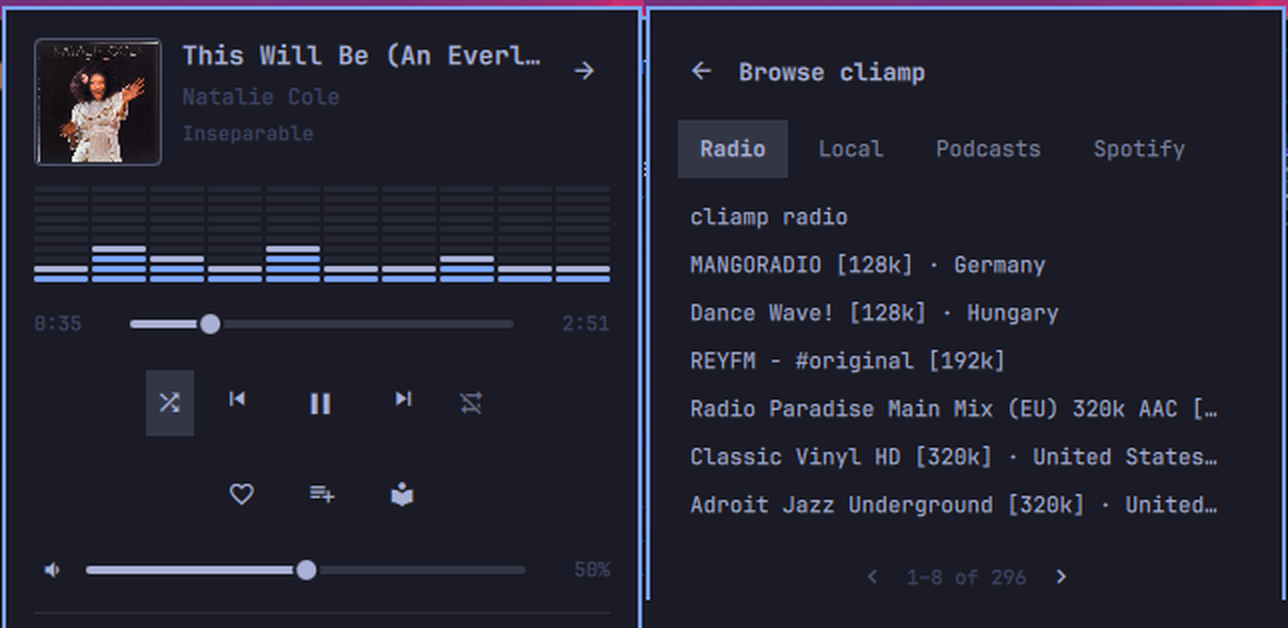
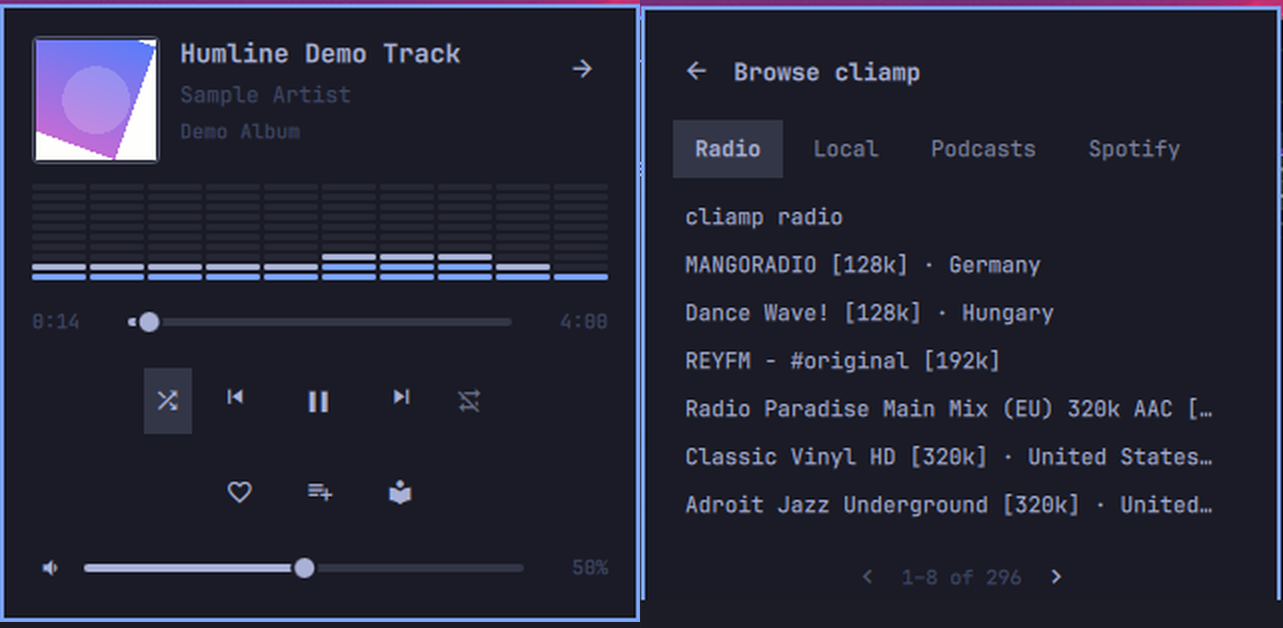
Humline Player 1.3.0: one shared cava, better player choice, tests and CI

diff --git a/BarWidget.qml b/BarWidget.qml
@@ -9,36 +9,19 @@ BarWidget {
   id: root
   moduleName: "humline"
 
-  // Players with something to show; playerctld only mirrors other players.
-  readonly property var sourcePlayers: {
-    var all = Mpris.players ? Mpris.players.values : []
-    var result = []
-    for (var i = 0; i < all.length; i++) {
-      var p = all[i]
-      if (!p || String(p.dbusName || "").indexOf("playerctld") !== -1) continue
-      if (p.trackTitle || p.trackArtist) result.push(p)
-    }
-    return result
-  }
-  property string selectedKey: ""
-  // A player picked in the card wins; otherwise the first one playing.
-  readonly property var activePlayer: {
-    var players = sourcePlayers
-    var firstPlaying = null
-    for (var i = 0; i < players.length; i++) {
-      if (playerKey(players[i]) === selectedKey) return players[i]
-      if (!firstPlaying && players[i].isPlaying) firstPlaying = players[i]
-    }
-    return firstPlaying || (players.length ? players[0] : null)
-  }
-  property bool cavaMissing: false
+  // Player choice and the single cava live in Service.qml, shared by every
+  // bar (one per monitor).
+  readonly property var service: bar && bar.shell ? bar.shell.serviceFor("humline") : null
+  readonly property var sourcePlayers: service ? service.sourcePlayers : []
+  readonly property var activePlayer: service ? service.activePlayer : null
+  readonly property bool cavaMissing: service ? service.cavaMissing : false
 
   // Tunable from the manifest schema (shell.json entry).
   readonly property bool hideWhenPaused: setting("hideWhenPaused", false) === true
   readonly property int dotCount: Math.max(4, Math.min(10, Math.round(Number(setting("dotCount", 10)) || 10)))
 
   function playerKey(player) { return player ? String(player.dbusName || "") : "" }
-  function selectPlayer(player) { selectedKey = playerKey(player) }
+  function selectPlayer(player) { if (service) service.selectPlayer(player) }
   function localPath(name) { return decodeURIComponent(String(Qt.resolvedUrl(name)).replace(/^file:\/\//, "")) }
 
   readonly property bool hasMedia: activePlayer !== null && (activePlayer.trackTitle || activePlayer.trackArtist)
@@ -49,7 +32,7 @@ BarWidget {
 
   readonly property bool playing: hasMedia && activePlayer.isPlaying
   readonly property bool canSetVolume: !!activePlayer && activePlayer.volumeSupported === true
-  property var bands: []
+  readonly property var bands: service ? service.bands : []
   // The bar face shows dotCount bands sampled evenly from cava's ten.
   readonly property var barBands: {
     if (dotCount >= bands.length) return bands
@@ -208,33 +191,10 @@ BarWidget {
     if (canSetVolume) activePlayer.volume = Math.max(0, Math.min(1, v))
   }
 
-  onPlayingChanged: if (!playing) bands = []
-
   readonly property bool shown: hasMedia && (playing || popupOpen || !hideWhenPaused)
   visible: shown
   implicitWidth: shown ? (playing ? barSpectrum.implicitWidth : glyph.implicitWidth) + Style.space(12) : 0
   implicitHeight: barSize
-
-  // cava analyses the actual PipeWire output, so the spectrum works for any player.
-    Process {
-    id: visStream
-    command: ["sh", "-c", "command -v cava >/dev/null || exit 127; exec cava -p \"$1\"", "sh", root.localPath("cava.conf")]
-    running: root.playing && !root.cavaMissing
-    stdout: SplitParser {
-      onRead: function(line) {
-        var parts = line.split(";")
-        var values = []
-        for (var i = 0; i < parts.length; i++) {
-          if (parts[i] !== "") values.push(Number(parts[i]) / 100)
-        }
-        if (values.length) root.bands = values
-      }
-    }
-    onExited: function(exitCode) {
-      if (exitCode === 127) root.cavaMissing = true
-      else if (root.playing) visRestart.restart()
-    }
-  }
 
   Process { id: focusProc }
   // Fire-and-forget cliamp action from IPC while the card is closed.
@@ -294,12 +254,6 @@ BarWidget {
       root.activePlayer.positionChanged()
       root.seekTo(root.activePlayer.position + offsetSeconds)
     }
-  }
-
-  Timer {
-    id: visRestart
-    interval: 1500
-    onTriggered: if (root.playing && !root.cavaMissing && !visStream.running) visStream.running = true
   }
 
   DotSpectrum {

diff --git a/Service.qml b/Service.qml
@@ -1,0 +1,75 @@
+import QtQuick
+import Quickshell
+import Quickshell.Io
+import Quickshell.Services.Mpris
+
+// Shared state for every Humline bar widget (one per monitor): which player
+// is active and the one cava process that feeds the spectrum. Sharing it here
+// keeps a multi-monitor setup at a single cava.
+Item {
+  id: root
+
+  // Players with something to show; playerctld only mirrors other players.
+  readonly property var sourcePlayers: {
+    var all = Mpris.players ? Mpris.players.values : []
+    var result = []
+    for (var i = 0; i < all.length; i++) {
+      var p = all[i]
+      if (!p || String(p.dbusName || "").indexOf("playerctld") !== -1) continue
+      if (p.trackTitle || p.trackArtist) result.push(p)
+    }
+    return result
+  }
+
+  // The player picked in the card; only wins while it is playing.
+  property string selectedKey: ""
+  readonly property var activePlayer: {
+    var players = sourcePlayers
+    var selected = null
+    var firstPlaying = null
+    for (var i = 0; i < players.length; i++) {
+      if (playerKey(players[i]) === selectedKey) selected = players[i]
+      if (!firstPlaying && players[i].isPlaying) firstPlaying = players[i]
+    }
+    if (selected && selected.isPlaying) return selected
+    return firstPlaying || selected || (players.length ? players[0] : null)
+  }
+
+  readonly property bool playing: activePlayer !== null && activePlayer.isPlaying
+    && !!(activePlayer.trackTitle || activePlayer.trackArtist)
+  property var bands: []
+  property bool cavaMissing: false
+
+  function playerKey(player) { return player ? String(player.dbusName || "") : "" }
+  function selectPlayer(player) { selectedKey = playerKey(player) }
+  function localPath(name) { return decodeURIComponent(String(Qt.resolvedUrl(name)).replace(/^file:\/\//, "")) }
+
+  onPlayingChanged: if (!playing) bands = []
+
+  // cava analyses the actual PipeWire output, so the spectrum works for any player.
+  Process {
+    id: visStream
+    command: ["sh", "-c", "command -v cava >/dev/null || exit 127; exec cava -p \"$1\"", "sh", root.localPath("cava.conf")]
+    running: root.playing && !root.cavaMissing
+    stdout: SplitParser {
+      onRead: function(line) {
+        var parts = line.split(";")
+        var values = []
+        for (var i = 0; i < parts.length; i++) {
+          if (parts[i] !== "") values.push(Number(parts[i]) / 100)
+        }
+        if (values.length) root.bands = values
+      }
+    }
+    onExited: function(exitCode) {
+      if (exitCode === 127) root.cavaMissing = true
+      else if (root.playing) visRestart.restart()
+    }
+  }
+
+  Timer {
+    id: visRestart
+    interval: 1500
+    onTriggered: if (root.playing && !root.cavaMissing && !visStream.running) visStream.running = true
+  }
+}

diff --git a/tests/test_cliamp_helper.py b/tests/test_cliamp_helper.py
@@ -1,0 +1,110 @@
+"""Tests for bin/humline-cliamp (favorites.toml handling) and the manifest.
+
+Run: python3 -m unittest discover -s tests
+"""
+import importlib.machinery
+import importlib.util
+import json
+import os
+import tempfile
+import unittest
+
+ROOT = os.path.dirname(os.path.dirname(os.path.abspath(__file__)))
+
+
+def load_helper():
+    path = os.path.join(ROOT, "bin", "humline-cliamp")
+    loader = importlib.machinery.SourceFileLoader("humline_cliamp", path)
+    spec = importlib.util.spec_from_loader("humline_cliamp", loader)
+    module = importlib.util.module_from_spec(spec)
+    loader.exec_module(module)
+    return module
+
+
+helper = load_helper()
+
+
+class QuoteTests(unittest.TestCase):
+    def test_roundtrip(self):
+        for text in ["plain", 'a "quoted" title', "back\\slash", "tab\there", "new\nline",
+                     "ünïcödé — 日本語", "emoji 🎵", "ctrl\x01char", ""]:
+            with self.subTest(text=text):
+                self.assertEqual(helper.go_unquote(helper.go_quote(text)), text)
+
+    def test_quote_matches_go_for_simple_strings(self):
+        self.assertEqual(helper.go_quote('a"b'), '"a\\"b"')
+        self.assertEqual(helper.go_quote("x\ny"), '"x\\ny"')
+
+
+class EntryTests(unittest.TestCase):
+    TRACK = {"path": "/music/a.flac", "title": "A", "artist": "Artist", "year": 1999,
+             "provider_meta": {"id": "1"}}
+
+    def test_new_entry_fields(self):
+        text = helper.new_entry(self.TRACK)
+        self.assertTrue(text.startswith("[[entry]]\n"))
+        self.assertIn('path = "/music/a.flac"', text)
+        self.assertIn('artist = "Artist"', text)
+        self.assertIn("year = 1999", text)
+        self.assertIn('provider_meta.id = "1"', text)
+
+    def test_split_entries_decodes_paths(self):
+        text = helper.new_entry(self.TRACK) + "\n" + helper.new_entry({"path": 'x "y"', "title": "T"})
+        self.assertEqual([p for p, _ in helper.split_entries(text)], ["/music/a.flac", 'x "y"'])
+
+
+class ToggleTests(unittest.TestCase):
+    def setUp(self):
+        self.dir = tempfile.TemporaryDirectory()
+        self.old_env = os.environ.get("CLIAMP_CONFIG_DIR")
+        os.environ["CLIAMP_CONFIG_DIR"] = self.dir.name
+        self.old_current = helper.current_track
+        self.track = {"path": "/music/one.mp3", "title": "One"}
+        helper.current_track = lambda expected="": self.track
+
+    def tearDown(self):
+        helper.current_track = self.old_current
+        if self.old_env is None:
+            os.environ.pop("CLIAMP_CONFIG_DIR", None)
+        else:
+            os.environ["CLIAMP_CONFIG_DIR"] = self.old_env
+        self.dir.cleanup()
+
+    def paths(self):
+        return [p for p, _ in helper.split_entries(helper.read_favs())]
+
+    def test_toggle_adds_then_removes_and_keeps_others(self):
+        self.assertEqual(helper.toggle_fav(""), {"ok": True, "fav": True})
+        self.track = {"path": "/music/two.mp3", "title": "Two"}
+        self.assertTrue(helper.toggle_fav("")["fav"])
+        self.assertEqual(self.paths(), ["/music/two.mp3", "/music/one.mp3"])
+        self.assertFalse(helper.toggle_fav("")["fav"])
+        self.assertEqual(self.paths(), ["/music/one.mp3"])
+        self.assertTrue(helper.is_fav("/music/one.mp3"))
+
+    def test_refuses_unsafe_file_names(self):
+        self.track = {"path": "/music/bad�.mp3", "title": "Bad"}
+        with self.assertRaises(helper.Fail):
+            helper.toggle_fav("")
+
+
+class ManifestTests(unittest.TestCase):
+    def setUp(self):
+        with open(os.path.join(ROOT, "manifest.json")) as f:
+            self.manifest = json.load(f)
+
+    def test_entry_points_exist(self):
+        for path in self.manifest["entryPoints"].values():
+            self.assertTrue(os.path.isfile(os.path.join(ROOT, path)), path)
+
+    def test_kinds_match_entry_points(self):
+        self.assertEqual(sorted(self.manifest["kinds"]), ["bar-widget", "service"])
+        self.assertIn("service", self.manifest["entryPoints"])
+
+    def test_settings_have_defaults(self):
+        bar = self.manifest["barWidget"]
+        self.assertEqual(sorted(bar["defaults"]), sorted(item["key"] for item in bar["schema"]))
+
+
+if __name__ == "__main__":
+    unittest.main()

diff --git a/README.md b/README.md
@@ -35,7 +35,7 @@ The bar face is just this: ![the bar widget](docs/bar.png)
 - **Card:** cover art, title/artist/album, larger spectrum, seek bar,
   previous/play/next, shuffle/repeat (if the player supports them), volume.
 - **Several players at once:** each gets its own row with play/pause and
-  jump; click a row to make it the main one.
+  jump; click a row to make it the main one (it stays main while it plays; when it stops, whichever player is playing takes over).
 - **cliamp extras** (only while cliamp is the active player):
   - **Heart:** like/unlike the track in cliamp's Favorites (same as `n` in
     cliamp).
@@ -123,29 +123,31 @@ omarchy-shell humline addToPlaylist
 
 ## Footprint
 
-Measured on my machine (Omarchy 4.0, Hyprland 0.56, one monitor, cliamp
-playing). These are my numbers, not a benchmark against other plugins.
+Measured on my machine (Omarchy 4.0, Hyprland 0.56, cliamp playing the same
+radio stream, 20 s samples, card closed). These are my numbers, one run each,
+not a benchmark. `tools/footprint.sh "<label>" [seconds]` reads `/proc` and
+changes nothing, so you can repeat it.
 
-| State | Result |
-| --- | --- |
-| Paused | no `cava` and no Humline process running |
-| Playing | one `cava` process |
-| Card open | omarchy-shell memory about +8 to +10 MB, released on close |
-| Ten open/close cycles | shell memory unchanged (361 MB before, 357 MB after) |
-
-Each click on a cliamp action runs one short-lived helper process.
-
-Measure it yourself with `tools/footprint.sh "<label>" [seconds]` (reads
-`/proc`, changes nothing). One row per state, same track, card closed. v1.2.0
-on my machine, 20 s samples, one test tone via mpv:
-
-| State | Shell RSS | CPU (shell + children) | Child processes |
+| Bar setup | Shell RSS | CPU (shell + children) | Extra processes |
 | --- | --- | --- | --- |
-| Paused | 347 MB | 0.9 % | none from Humline (`inotifywait`, `wl-paste` are the shell's) |
-| Playing | 347 MB | 6.3 % | + one `cava` |
+| No media widget | 341 MB | 0.8 % | none |
+| Built-in `omarchy.media` | 342 MB | 0.9 % | none |
+| Humline 1.3, **playing** | 350 MB | 8.5 % | one `cava` |
+| Humline, **paused** (1.2.0) | 347 MB | 0.9 % | none |
 
-CPU while playing is mostly the shell redrawing the spectrum plus `cava`
-itself.
+So while paused Humline costs nothing measurable, the same as the built-in
+widget. While playing, the live spectrum is not free: about 5-8 % of one core
+here (`cava` plus the shell redrawing ten dot columns). If that matters, set
+**Spectrum dots** lower or use **Hide when paused**; a widget without a
+spectrum is lighter. I did not measure other third-party widgets.
+
+Other facts:
+
+- The card adds about 8-10 MB of shell memory while open and gives it back on
+  close (ten open/close cycles: 361 MB before, 357 MB after).
+- With two monitors, 1.1.1 ran two `cava` processes; 1.3 runs one, shared by
+  every bar (tested with a second virtual monitor).
+- Each click on a cliamp action runs one short-lived helper process.
 
 ## Known limits
 
@@ -167,8 +169,10 @@ itself.
   the track URL. If several browser windows are open and none matches,
   Humline does not jump (it never guesses). Web apps (their own window) work
   best; in a normal browser it may not select the playing tab.
-- With several monitors, each bar runs its own `cava` while audio plays (not
-  measured).
+- The spectrum comes from the whole PipeWire output (`cava`), not from one
+  player: if another app makes sound while the active player plays, its audio
+  moves the dots too. Per-player capture would need extra processes, which
+  Humline avoids.
 
 ## Notes
 

diff --git a/ROADMAP.md b/ROADMAP.md
@@ -15,10 +15,10 @@ to earn its bytes: Humline stays small and needs no new runtime dependencies.
 
 ## 2.0 must-have
 
-- Footprint script done in 1.2.0; still to do: a
-  fair side-by-side with the built-in `omarchy.media` widget.
+- ~~Footprint script and a side-by-side with the built-in widget~~ done in
+  1.2.0 / 1.3.0 (see the README table); other third-party widgets not measured.
 - ~~Keyboard use of the card~~ done in 1.2.0 (Omarchy's `KeyboardPanel`).
-- Verify one `cava` per monitor and remove duplicates on multi-monitor setups.
+- ~~One `cava` per monitor~~ done in 1.3.0: one shared cava (tested on two monitors).
 - Listing in the Omarchy plugin marketplace, tagged releases with notes.
 - Decide the plugin id policy (`humline` today; a namespaced id would break
   existing installs and bar placement).
@@ -29,6 +29,10 @@ to earn its bytes: Humline stays small and needs no new runtime dependencies.
   width.
 - ~~Tiny settings: hide when paused, dot count~~ done in 1.2.0.
 - Ignore noise players (notification sounds, games).
+- Use `cliamp visstream` for cliamp so cava becomes optional there: on cliamp
+  2.2.0 it only returned zero bands while playing, so it was dropped for now.
+- Gate the spectrum on a matching PipeWire stream: cava reads the whole
+  output, so this cannot make dots per-player and risks blanking them.
 - Refresh cliamp's heart marker live if cliamp gains a remote favorites
   command.
 - Vertical bar support.
